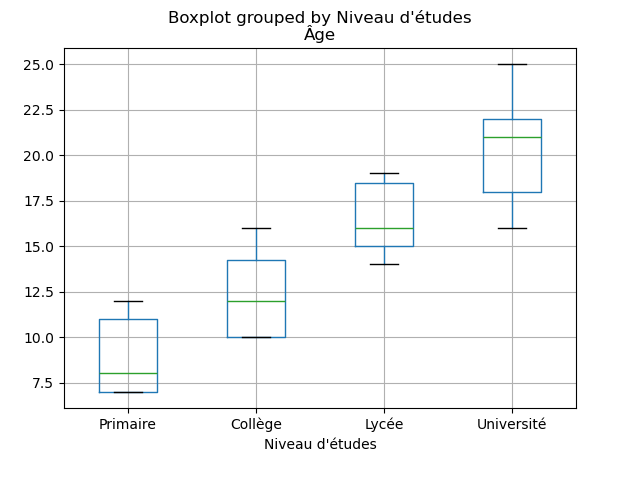
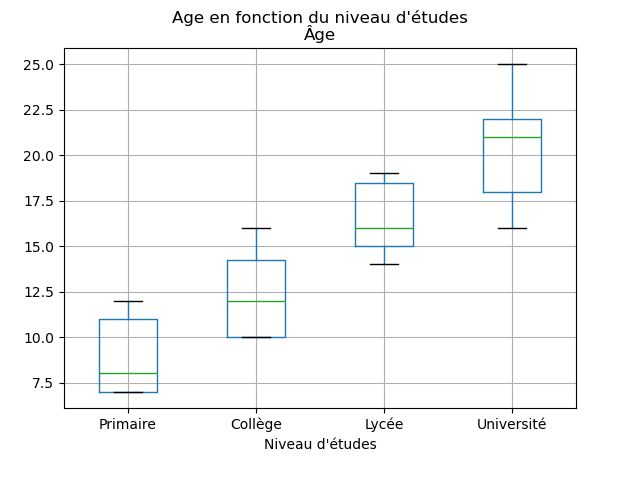
cool graph >:)

Changed region(s): [[0.25, 0.0, 0.75, 0.0625]]

diff --git a/P11/traitementDonnee/TP5/eleve.py b/P11/traitementDonnee/TP5/eleve.py
@@ -32,8 +32,15 @@ n_h = (data_clean.loc[
 # print(len(n_h))
 df_s = (pd.DataFrame({"Sexes":["F", "M"], "Nombre d'élèves":[len(n_f), len(n_h)]}))
 
-df_s.plot.bar(x="Sexes", y="Nombre d'élèves", rot=0)
+ax = df_s.plot.bar(x="Sexes", y="Nombre d'élèves", rot=0, title="Répartition Femmes/Hommes chez les élèves")
+ax.get_legend().remove()
+ax.bar_label(ax.containers[0])
+
+ax.set_ylabel("Nombre d'élèves")
+
 plt.savefig("p_sexes.png")
+####
+
 
 #### Graph p_ages_etudes
 age_etu = data_clean[["Âge", "Niveau d'études"]]
@@ -41,9 +48,7 @@ age_etu["Âge"] = age_etu["Âge"].astype(int)
 age_etu["Niveau d'études"] = pd.Categorical(age_etu["Niveau d'études"],
     categories=["Primaire", "Collège", "Lycée", "Université"]
 )
-# print(age_etu)
-
-age_etu.boxplot(column=["Âge"], by="Niveau d'études")
-
+a = age_etu.boxplot(column=["Âge"], by="Niveau d'études")
+plt.suptitle("Age en fonction du niveau d'études")
 plt.savefig("p_ages_etudes.png")
-
+####
